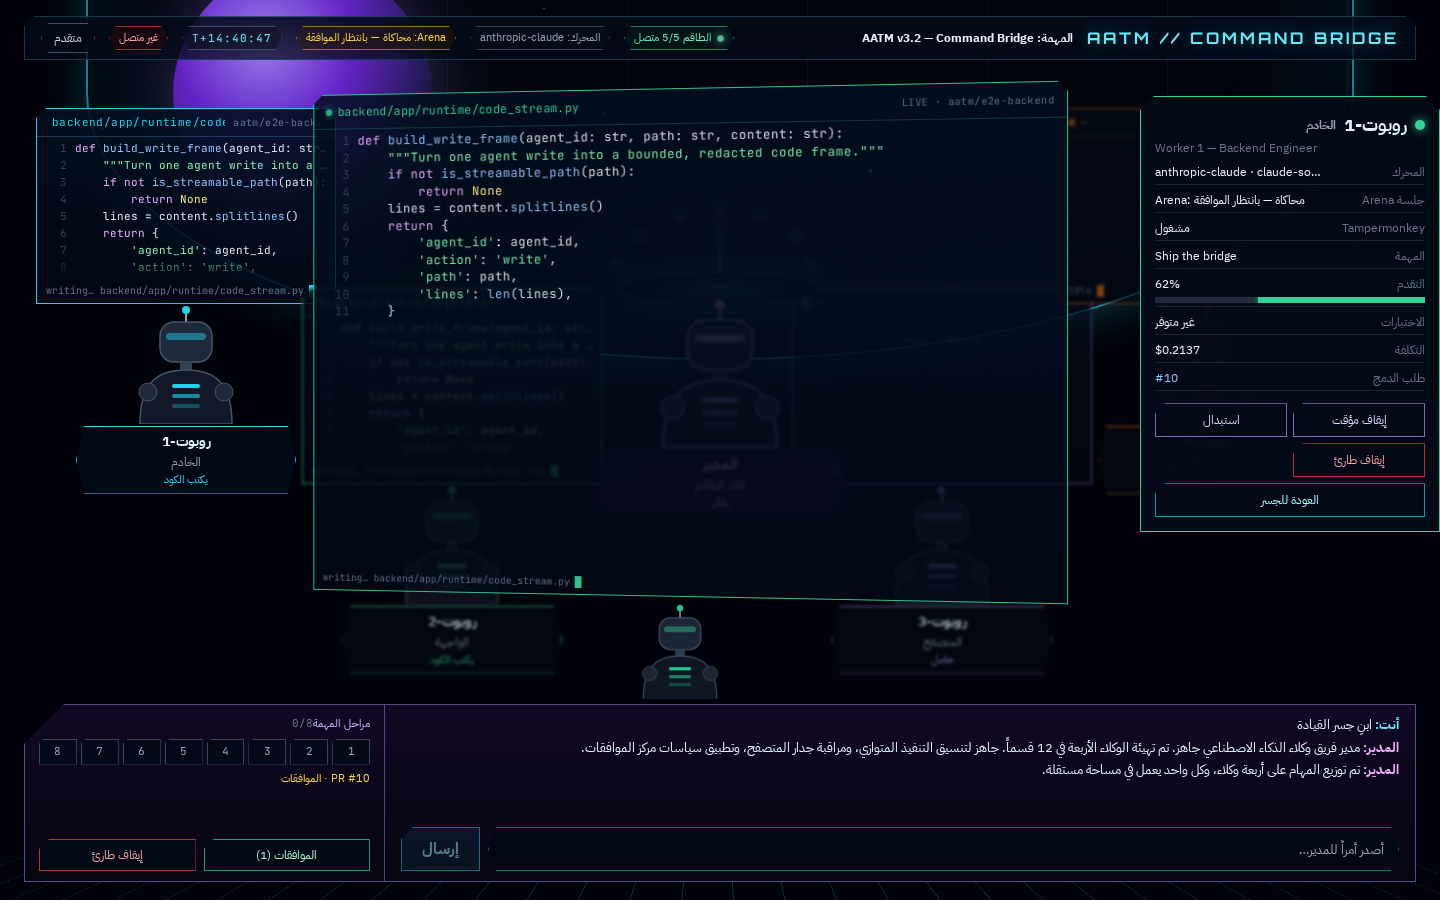
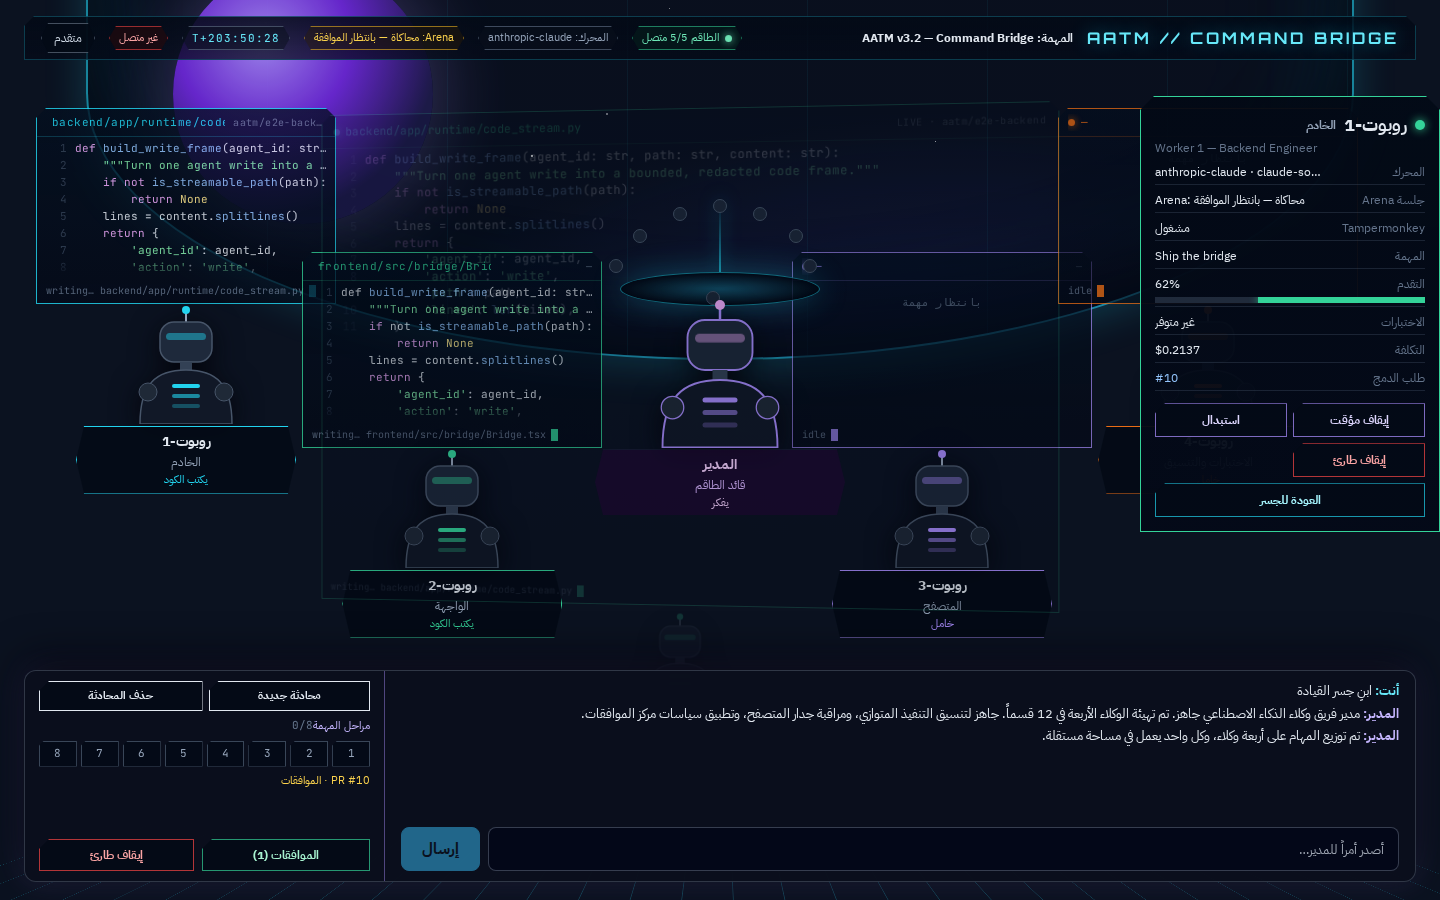
Bridge: keep worker nameplates readable and clear of the console
Tightens the seat rows so the lower stations no longer slide under the
commander console, and lifts nameplates above neighbouring robots.
Regenerates the committed bridge design screenshots.

diff --git a/frontend/src/bridge/station.ts b/frontend/src/bridge/station.ts
@@ -9,17 +9,17 @@ export type SeatPosition = { left: string; top: string; tilt: string }
 /** The 4 default workstations form an arc: outer seats higher, inner seats lower (spec §2.4). */
 export const SEAT_POSITIONS: SeatPosition[] = [
   { left: '2.5%', top: '12%', tilt: '18deg' },
-  { left: '21%', top: '32%', tilt: '10deg' },
-  { left: '55%', top: '32%', tilt: '-10deg' },
+  { left: '21%', top: '28%', tilt: '10deg' },
+  { left: '55%', top: '28%', tilt: '-10deg' },
   { left: '73.5%', top: '12%', tilt: '-18deg' },
 ]
 
 /** Extra employees sit in a second, smaller arc behind the first (scale 0.8). */
 export const EXTRA_POSITIONS: SeatPosition[] = [
-  { left: '12%', top: '20%', tilt: '14deg' },
-  { left: '31%', top: '40%', tilt: '6deg' },
-  { left: '55%', top: '40%', tilt: '-6deg' },
-  { left: '72%', top: '20%', tilt: '-14deg' },
+  { left: '12%', top: '18%', tilt: '14deg' },
+  { left: '31%', top: '34%', tilt: '6deg' },
+  { left: '55%', top: '34%', tilt: '-6deg' },
+  { left: '72%', top: '18%', tilt: '-14deg' },
 ]
 
 export function seatColor(index: number): string {
@@ -30,7 +30,7 @@ export function seatPosition(index: number): { position: SeatPosition; extra: bo
   if (index < SEAT_POSITIONS.length) return { position: SEAT_POSITIONS[index], extra: false }
   const slot = EXTRA_POSITIONS[(index - SEAT_POSITIONS.length) % EXTRA_POSITIONS.length]
   const row = Math.floor((index - SEAT_POSITIONS.length) / EXTRA_POSITIONS.length)
-  const top = Math.min(72, parseFloat(slot.top) + row * 10)
+  const top = Math.min(36, parseFloat(slot.top) + row * 10)
   return { position: { ...slot, top: `${top}%` }, extra: true }
 }
 

diff --git a/frontend/src/bridge/bridge.css b/frontend/src/bridge/bridge.css
@@ -511,6 +511,8 @@ html.bridge-mounted body {
 /* name tag */
 
 .bridge-tag {
+  position: relative;
+  z-index: 2;
   min-height: 58px;
   width: min(100%, 220px);
   display: flex;
